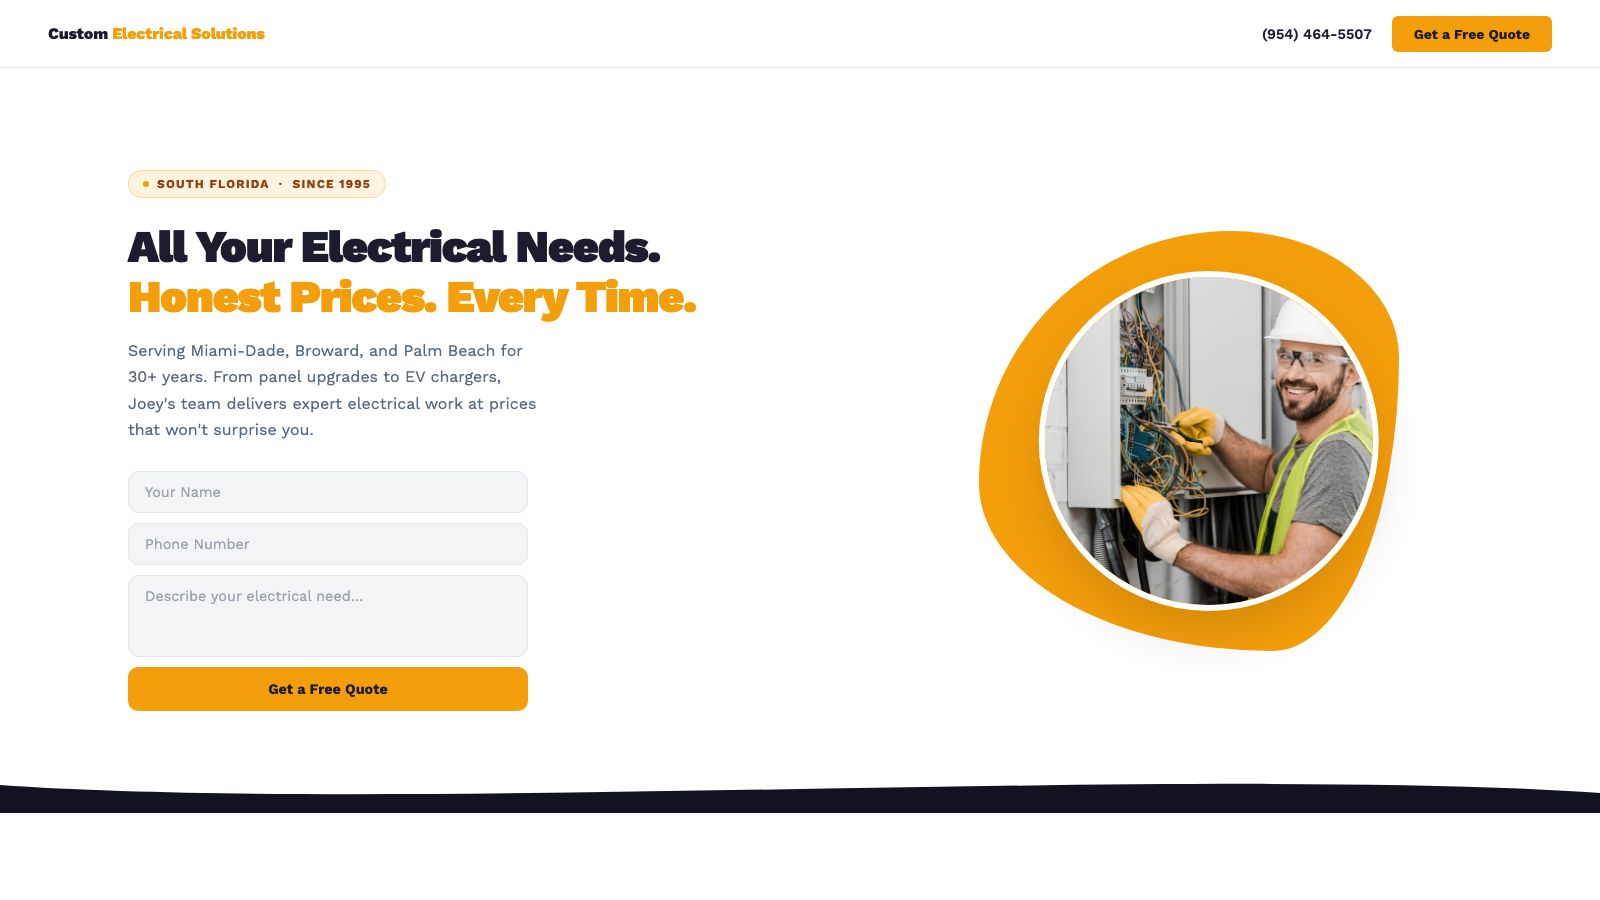
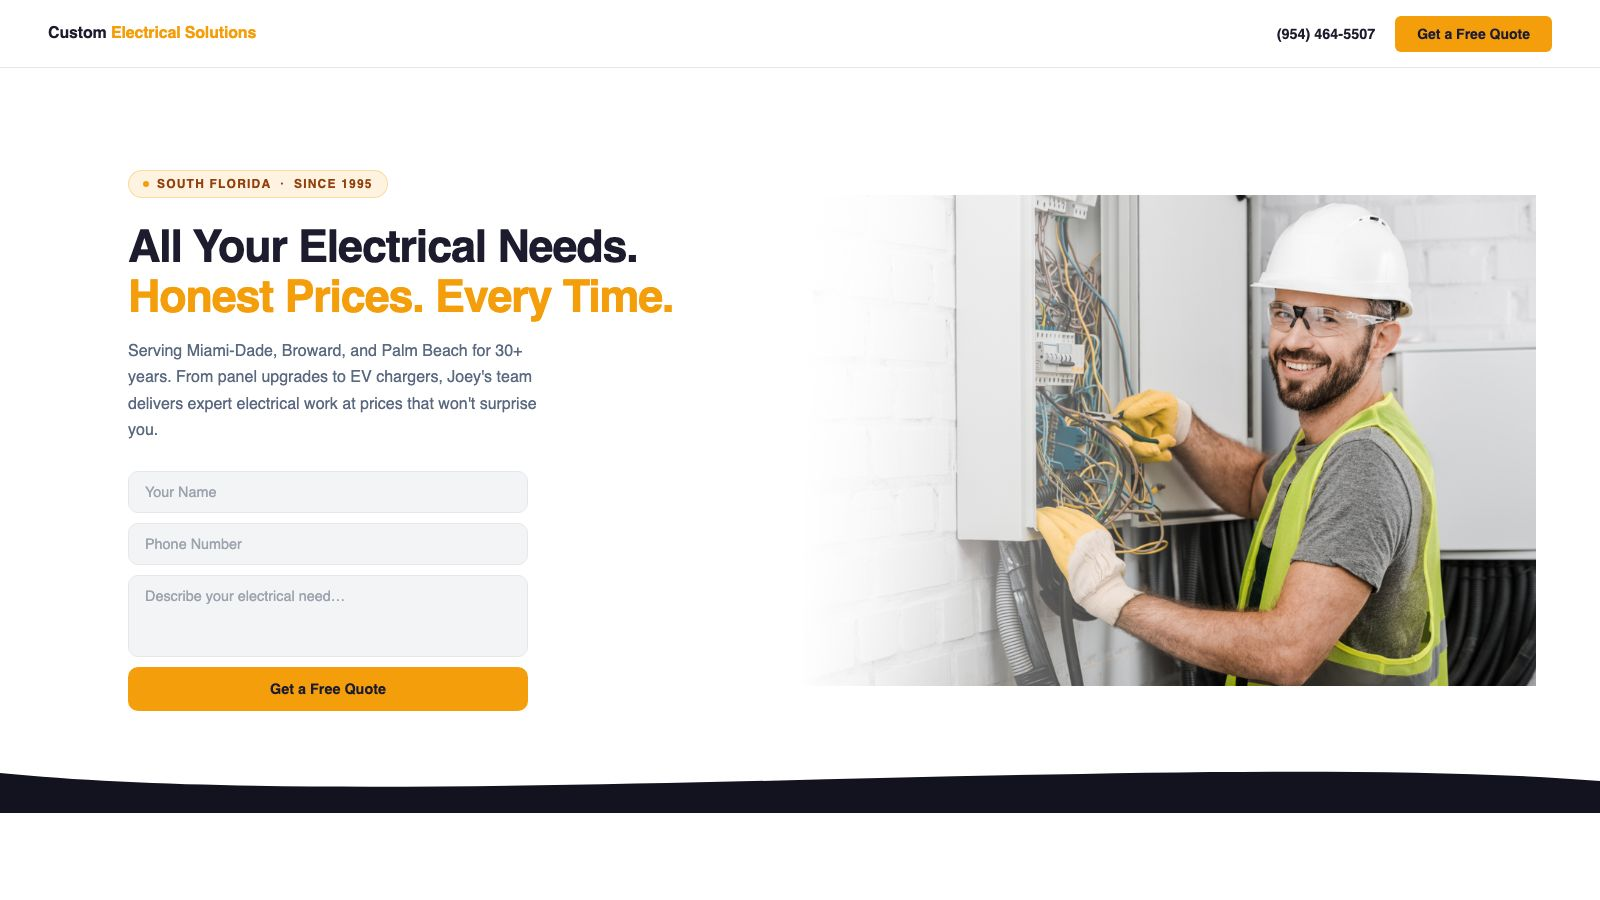
Hero: full-bleed photo + smooth wave separator on 3 electrician pages
- Photo fills right column edge-to-edge (no circle crop, no blob)
- White-to-transparent gradient on left edge blends into text column
- Wave separator height increased to 72px, smoother S-curve path
- Matches HEO INSPO style more closely

diff --git a/p/custom-electrical-tamarac/index.html b/p/custom-electrical-tamarac/index.html
@@ -44,11 +44,11 @@ h1 em{font-style:normal;color:var(--accent)}
 .hero-form input::placeholder,.hero-form textarea::placeholder{color:#9ca3af}
 .hero-form textarea{resize:none;height:82px}
 .hero-form button{background:var(--accent);color:var(--navy);border:none;border-radius:10px;padding:14px;font-size:.9rem;font-weight:700;cursor:pointer;font-family:inherit;width:100%}
-.hero-right{position:relative;display:flex;align-items:center;justify-content:center;height:100%}
-.hero-blob{position:absolute;width:420px;height:420px;background:var(--accent);border-radius:60% 40% 30% 70% / 60% 30% 70% 40%;top:50%;left:50%;transform:translate(-45%,-50%)}
-.hero-circle{width:340px;height:340px;border-radius:50%;object-fit:cover;position:absolute;top:50%;left:50%;transform:translate(-38%,-50%);z-index:1;border:6px solid #fff;box-shadow:0 24px 48px rgba(0,0,0,.12)}
+.hero-right{position:relative;overflow:hidden}
+.hero-right img{width:100%;height:100%;object-fit:cover;display:block}
+.hero-right::before{content:'';position:absolute;inset:0;z-index:1;background:linear-gradient(to right,#fff 0%,rgba(255,255,255,.5) 22%,transparent 58%);pointer-events:none}
 .hero-wave{position:absolute;bottom:0;left:0;width:100%;line-height:0;z-index:3;pointer-events:none}
-.hero-wave svg{display:block;width:100%;height:48px}
+.hero-wave svg{display:block;width:100%;height:72px}
 
 /* PLACEHOLDERS */
 .photo-placeholder{background:rgba(255,255,255,.04);border:2px dashed rgba(255,255,255,.15);display:flex;align-items:center;justify-content:center;flex-direction:column;gap:10px;color:rgba(255,255,255,.25);font-size:.8rem;font-weight:600;text-transform:uppercase;letter-spacing:.08em}
@@ -157,12 +157,11 @@ footer{background:var(--trust-bg);padding:48px 64px;display:grid;grid-template-c
     </form>
   </div>
   <div class="hero-right">
-    <div class="hero-blob"></div>
-    <img class="hero-circle" src="../../assets/samples/Electricians/electrician-working-on-electrical-panel-circuit-breaker-box.jpg" alt="Licensed electrician at work">
+    <img src="../../assets/samples/Electricians/electrician-working-on-electrical-panel-circuit-breaker-box.jpg" alt="Licensed electrician at work">
   </div>
   <div class="hero-wave">
-    <svg viewBox="0 0 1440 48" preserveAspectRatio="none" xmlns="http://www.w3.org/2000/svg">
-      <path d="M0,20 C360,48 1080,0 1440,28 L1440,48 L0,48 Z" fill="#131320"/>
+    <svg viewBox="0 0 1440 72" preserveAspectRatio="none" xmlns="http://www.w3.org/2000/svg">
+      <path d="M0,32 C360,72 1080,8 1440,40 L1440,72 L0,72 Z" fill="#131320"/>
     </svg>
   </div>
 </section>

diff --git a/p/customer-1st-electric-coral-springs/index.html b/p/customer-1st-electric-coral-springs/index.html
@@ -44,11 +44,11 @@ h1 em{font-style:normal;color:var(--accent)}
 .hero-form input::placeholder,.hero-form textarea::placeholder{color:#9ca3af}
 .hero-form textarea{resize:none;height:82px}
 .hero-form button{background:var(--accent);color:var(--navy);border:none;border-radius:10px;padding:14px;font-size:.9rem;font-weight:700;cursor:pointer;font-family:inherit;width:100%}
-.hero-right{position:relative;display:flex;align-items:center;justify-content:center;height:100%}
-.hero-blob{position:absolute;width:420px;height:420px;background:var(--accent);border-radius:60% 40% 30% 70% / 60% 30% 70% 40%;top:50%;left:50%;transform:translate(-45%,-50%)}
-.hero-circle{width:340px;height:340px;border-radius:50%;object-fit:cover;position:absolute;top:50%;left:50%;transform:translate(-38%,-50%);z-index:1;border:6px solid #fff;box-shadow:0 24px 48px rgba(0,0,0,.12)}
+.hero-right{position:relative;overflow:hidden}
+.hero-right img{width:100%;height:100%;object-fit:cover;display:block}
+.hero-right::before{content:'';position:absolute;inset:0;z-index:1;background:linear-gradient(to right,#fff 0%,rgba(255,255,255,.5) 22%,transparent 58%);pointer-events:none}
 .hero-wave{position:absolute;bottom:0;left:0;width:100%;line-height:0;z-index:3;pointer-events:none}
-.hero-wave svg{display:block;width:100%;height:48px}
+.hero-wave svg{display:block;width:100%;height:72px}
 
 /* PLACEHOLDERS */
 .photo-placeholder{background:rgba(255,255,255,.04);border:2px dashed rgba(255,255,255,.15);display:flex;align-items:center;justify-content:center;flex-direction:column;gap:10px;color:rgba(255,255,255,.25);font-size:.8rem;font-weight:600;text-transform:uppercase;letter-spacing:.08em}
@@ -153,12 +153,11 @@ footer{background:var(--trust-bg);padding:48px 64px;display:grid;grid-template-c
     </form>
   </div>
   <div class="hero-right">
-    <div class="hero-blob"></div>
-    <img class="hero-circle" src="../../assets/samples/Electricians/electrician-working-on-electrical-panel-circuit-breaker-box.jpg" alt="Licensed electrician at work">
+    <img src="../../assets/samples/Electricians/electrician-working-on-electrical-panel-circuit-breaker-box.jpg" alt="Licensed electrician at work">
   </div>
   <div class="hero-wave">
-    <svg viewBox="0 0 1440 48" preserveAspectRatio="none" xmlns="http://www.w3.org/2000/svg">
-      <path d="M0,20 C360,48 1080,0 1440,28 L1440,48 L0,48 Z" fill="#081523"/>
+    <svg viewBox="0 0 1440 72" preserveAspectRatio="none" xmlns="http://www.w3.org/2000/svg">
+      <path d="M0,32 C360,72 1080,8 1440,40 L1440,72 L0,72 Z" fill="#081523"/>
     </svg>
   </div>
 </section>

diff --git a/p/mg-electric-lauderhill/index.html b/p/mg-electric-lauderhill/index.html
@@ -44,11 +44,11 @@ h1 em{font-style:normal;color:var(--accent)}
 .hero-form input::placeholder,.hero-form textarea::placeholder{color:#9ca3af}
 .hero-form textarea{resize:none;height:82px}
 .hero-form button{background:var(--accent);color:var(--navy);border:none;border-radius:10px;padding:14px;font-size:.9rem;font-weight:700;cursor:pointer;font-family:inherit;width:100%}
-.hero-right{position:relative;display:flex;align-items:center;justify-content:center;height:100%}
-.hero-blob{position:absolute;width:420px;height:420px;background:var(--accent);border-radius:60% 40% 30% 70% / 60% 30% 70% 40%;top:50%;left:50%;transform:translate(-45%,-50%)}
-.hero-circle{width:340px;height:340px;border-radius:50%;object-fit:cover;position:absolute;top:50%;left:50%;transform:translate(-38%,-50%);z-index:1;border:6px solid #fff;box-shadow:0 24px 48px rgba(0,0,0,.12)}
+.hero-right{position:relative;overflow:hidden}
+.hero-right img{width:100%;height:100%;object-fit:cover;display:block}
+.hero-right::before{content:'';position:absolute;inset:0;z-index:1;background:linear-gradient(to right,#fff 0%,rgba(255,255,255,.5) 22%,transparent 58%);pointer-events:none}
 .hero-wave{position:absolute;bottom:0;left:0;width:100%;line-height:0;z-index:3;pointer-events:none}
-.hero-wave svg{display:block;width:100%;height:48px}
+.hero-wave svg{display:block;width:100%;height:72px}
 
 /* PLACEHOLDERS */
 .photo-placeholder{background:rgba(255,255,255,.04);border:2px dashed rgba(255,255,255,.15);display:flex;align-items:center;justify-content:center;flex-direction:column;gap:10px;color:rgba(255,255,255,.25);font-size:.8rem;font-weight:600;text-transform:uppercase;letter-spacing:.08em}
@@ -161,12 +161,11 @@ footer{background:var(--trust-bg);padding:48px 64px;display:grid;grid-template-c
     </form>
   </div>
   <div class="hero-right">
-    <div class="hero-blob"></div>
-    <img class="hero-circle" src="../../assets/samples/Electricians/electrician-working-on-electrical-panel-circuit-breaker-box.jpg" alt="Licensed electrician at work">
+    <img src="../../assets/samples/Electricians/electrician-working-on-electrical-panel-circuit-breaker-box.jpg" alt="Licensed electrician at work">
   </div>
   <div class="hero-wave">
-    <svg viewBox="0 0 1440 48" preserveAspectRatio="none" xmlns="http://www.w3.org/2000/svg">
-      <path d="M0,20 C360,48 1080,0 1440,28 L1440,48 L0,48 Z" fill="#0a1e32"/>
+    <svg viewBox="0 0 1440 72" preserveAspectRatio="none" xmlns="http://www.w3.org/2000/svg">
+      <path d="M0,32 C360,72 1080,8 1440,40 L1440,72 L0,72 Z" fill="#0a1e32"/>
     </svg>
   </div>
 </section>
